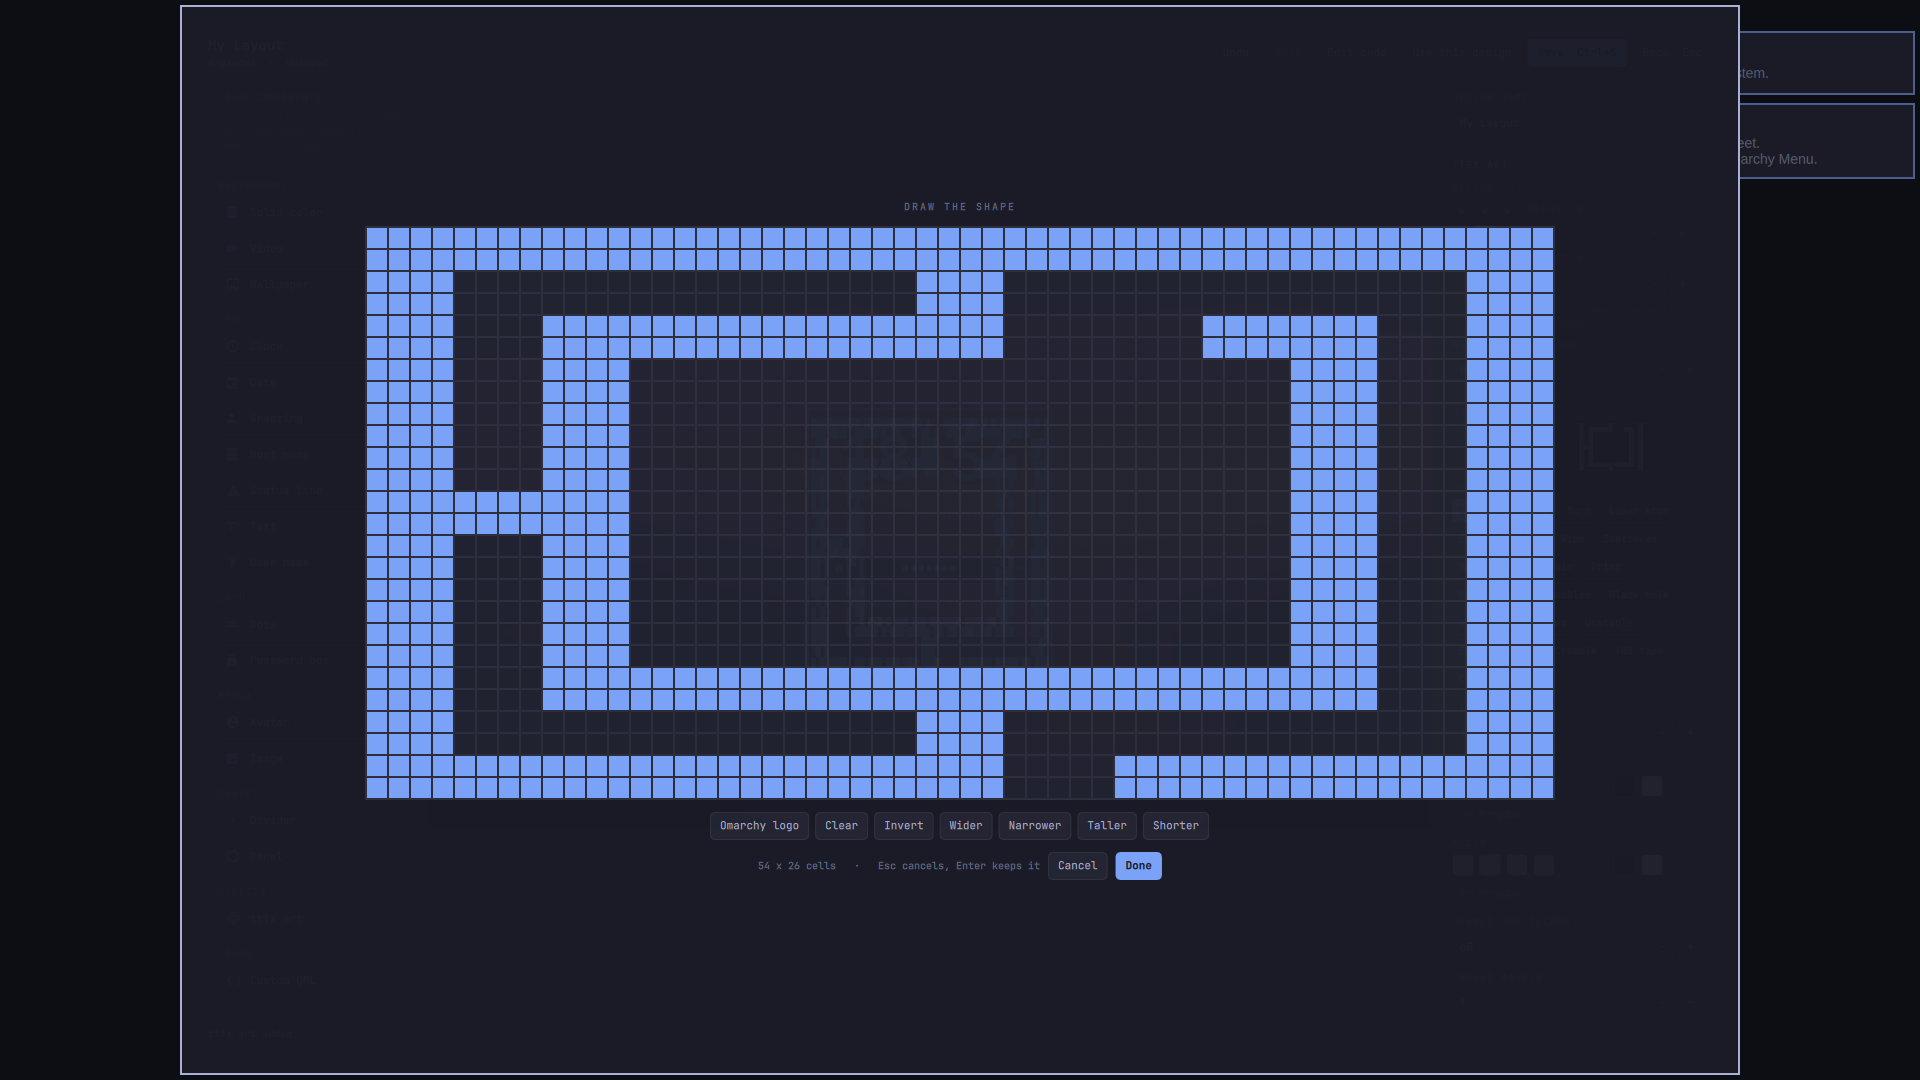
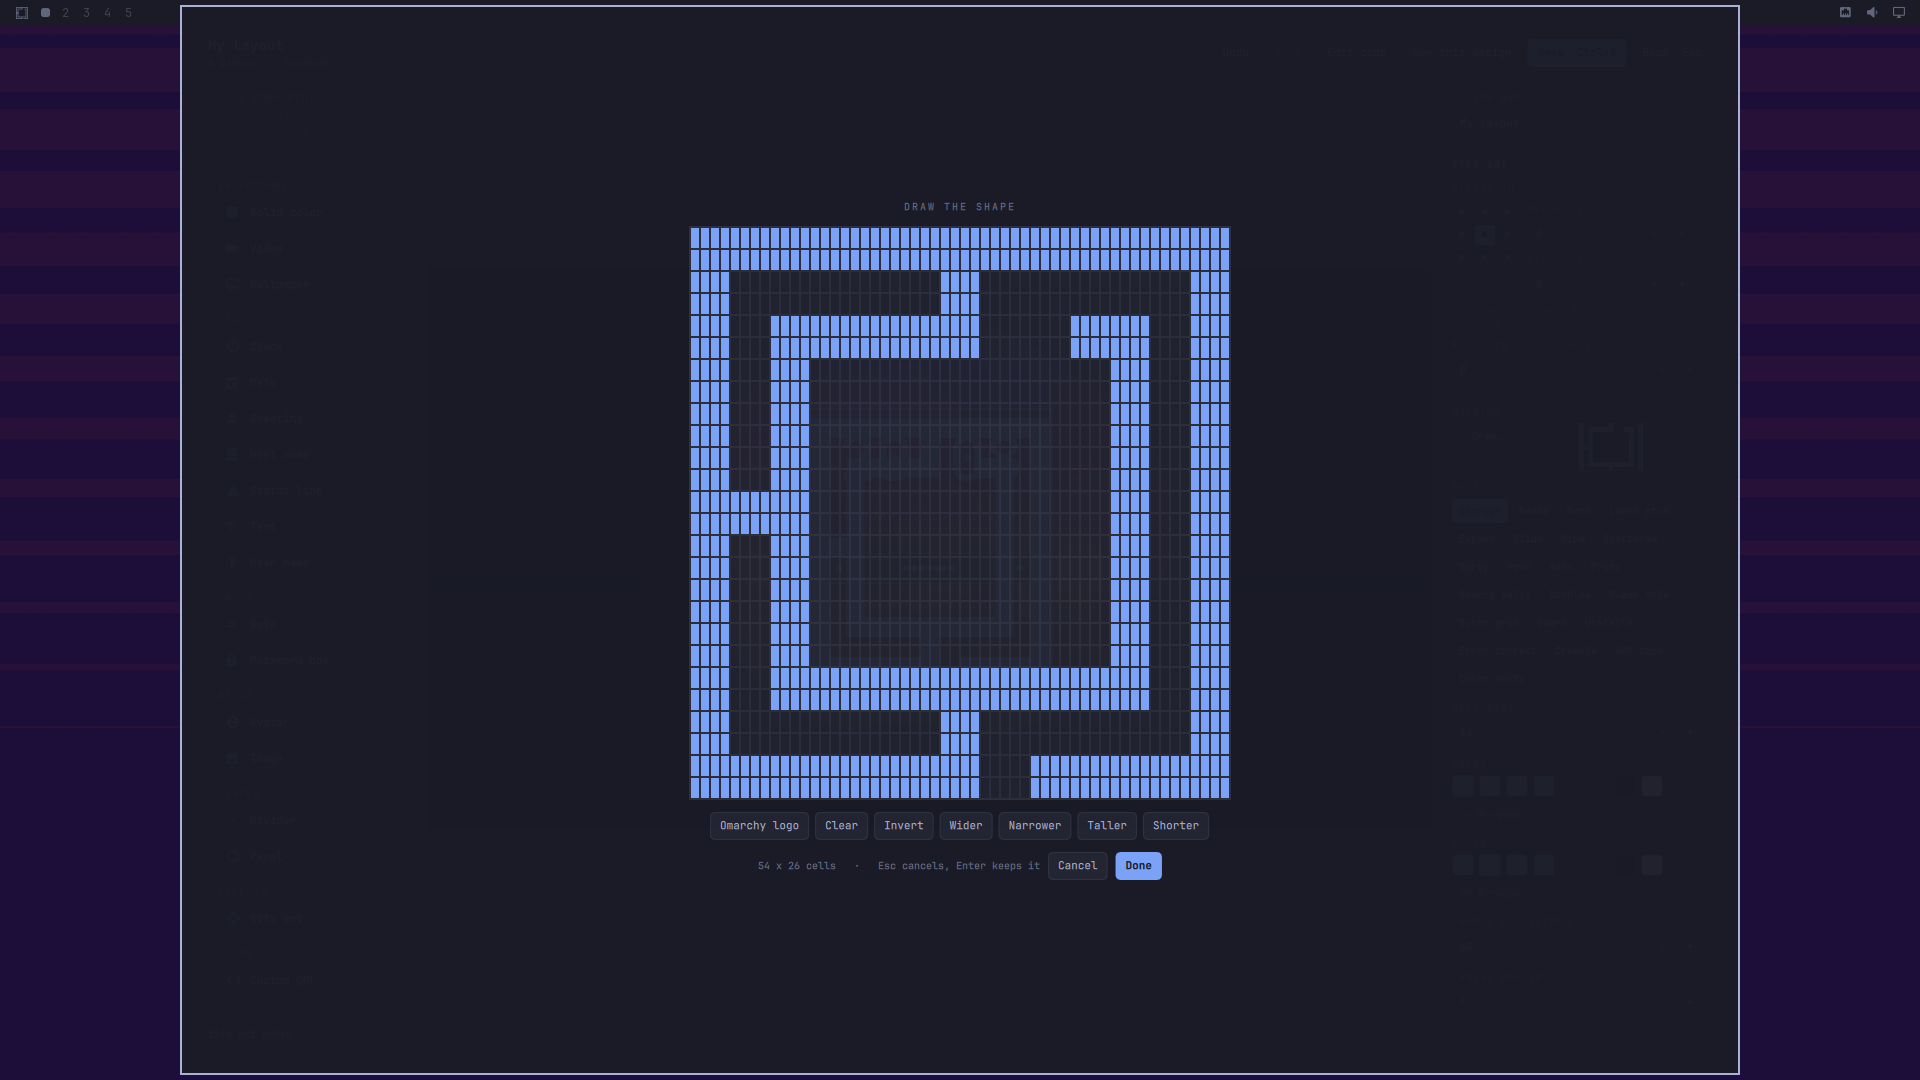
Draw ttfx art in cells of the font's shape, not squares
ttfx draws every cell as a character of the theme's monospace font, about
twice as tall as it is wide. The grid editor drew square cells, so a shape
looked twice as wide as it comes out on the lock screen -- the Omarchy logo
showed as a wide bar. The cells now take the font's proportions, measured
the way TtfxText measures them. Release screenshot retaken.

diff --git a/Designer.qml b/Designer.qml
@@ -1716,11 +1716,26 @@ Item {
       Rectangle {
         id: gridBox
         anchors.horizontalCenter: parent.horizontalCenter
-        readonly property real cell: Math.max(4, Math.floor(Math.min(
+        // ttfx draws every cell as a character of the theme's monospace font,
+        // about twice as tall as it is wide. Square cells showed the shape at
+        // double its width, so the cells take the font's own proportions,
+        // measured the way TtfxText measures them.
+        readonly property real aspect: cellProbe.contentWidth > 0
+          ? Math.max(1, Math.ceil(cellProbe.contentHeight) / (cellProbe.contentWidth / 10)) : 2
+        readonly property real cell: Math.max(3, Math.floor(Math.min(
           (designer.width * 0.8) / Math.max(1, designer.artCols),
-          (designer.height * 0.6) / Math.max(1, designer.artRows))))
+          (designer.height * 0.6) / Math.max(1, designer.artRows * aspect))))
+        readonly property real cellH: Math.round(cell * aspect)
         width: designer.artCols * cell + 2
-        height: designer.artRows * cell + 2
+        height: designer.artRows * cellH + 2
+
+        Text {
+          id: cellProbe
+          visible: false
+          text: "MMMMMMMMMM"
+          font.family: Style.font.family
+          font.pixelSize: 100
+        }
         color: designer.well
         border.width: 1
         border.color: designer.line
@@ -1730,7 +1745,7 @@ Item {
           x: 1
           y: 1
           width: designer.artCols * gridBox.cell
-          height: designer.artRows * gridBox.cell
+          height: designer.artRows * gridBox.cellH
 
           Repeater {
             model: designer.artRows * designer.artCols
@@ -1740,9 +1755,9 @@ Item {
               readonly property int row: Math.floor(index / Math.max(1, designer.artCols))
               readonly property int col: index % Math.max(1, designer.artCols)
               x: col * gridBox.cell
-              y: row * gridBox.cell
+              y: row * gridBox.cellH
               width: gridBox.cell
-              height: gridBox.cell
+              height: gridBox.cellH
               color: designer.artGrid[row] && designer.artGrid[row][col] ? designer.accent : "transparent"
               border.width: gridBox.cell >= 8 ? 1 : 0
               border.color: Qt.rgba(designer.foreground.r, designer.foreground.g, designer.foreground.b, 0.08)
@@ -1755,7 +1770,7 @@ Item {
             anchors.fill: parent
             hoverEnabled: false
             function cellAt(mx, my) {
-              return { r: Math.floor(my / gridBox.cell), c: Math.floor(mx / gridBox.cell) }
+              return { r: Math.floor(my / gridBox.cellH), c: Math.floor(mx / gridBox.cell) }
             }
             onPressed: function(mouse) {
               var at = cellAt(mouse.x, mouse.y)
